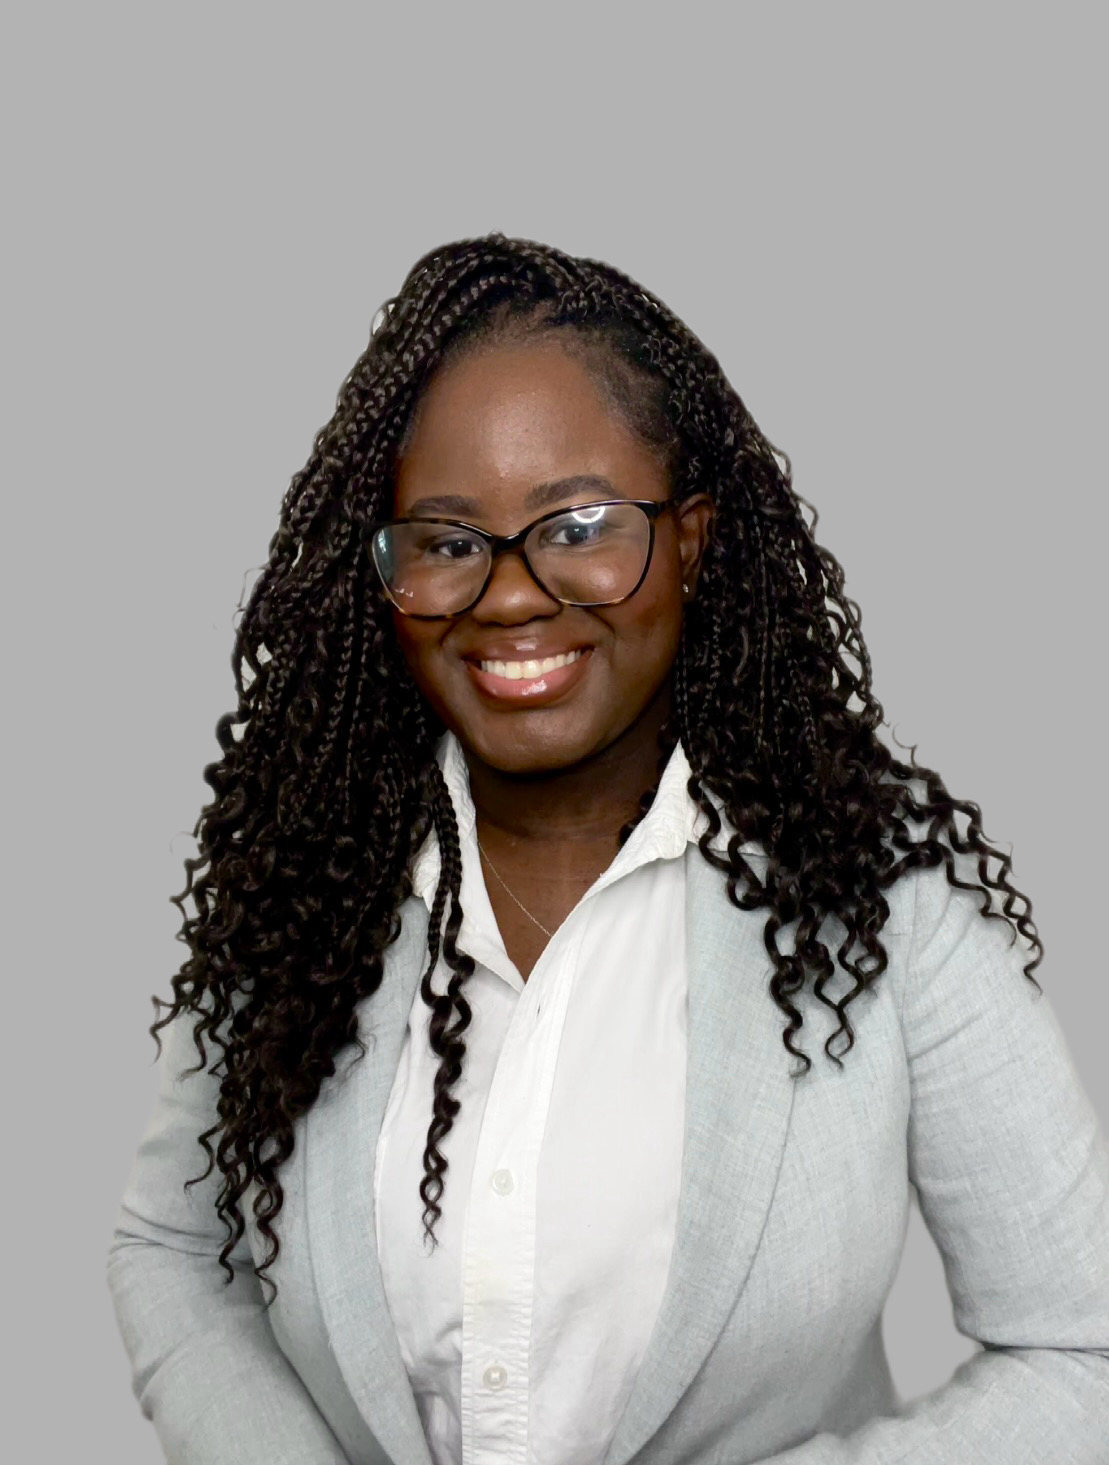
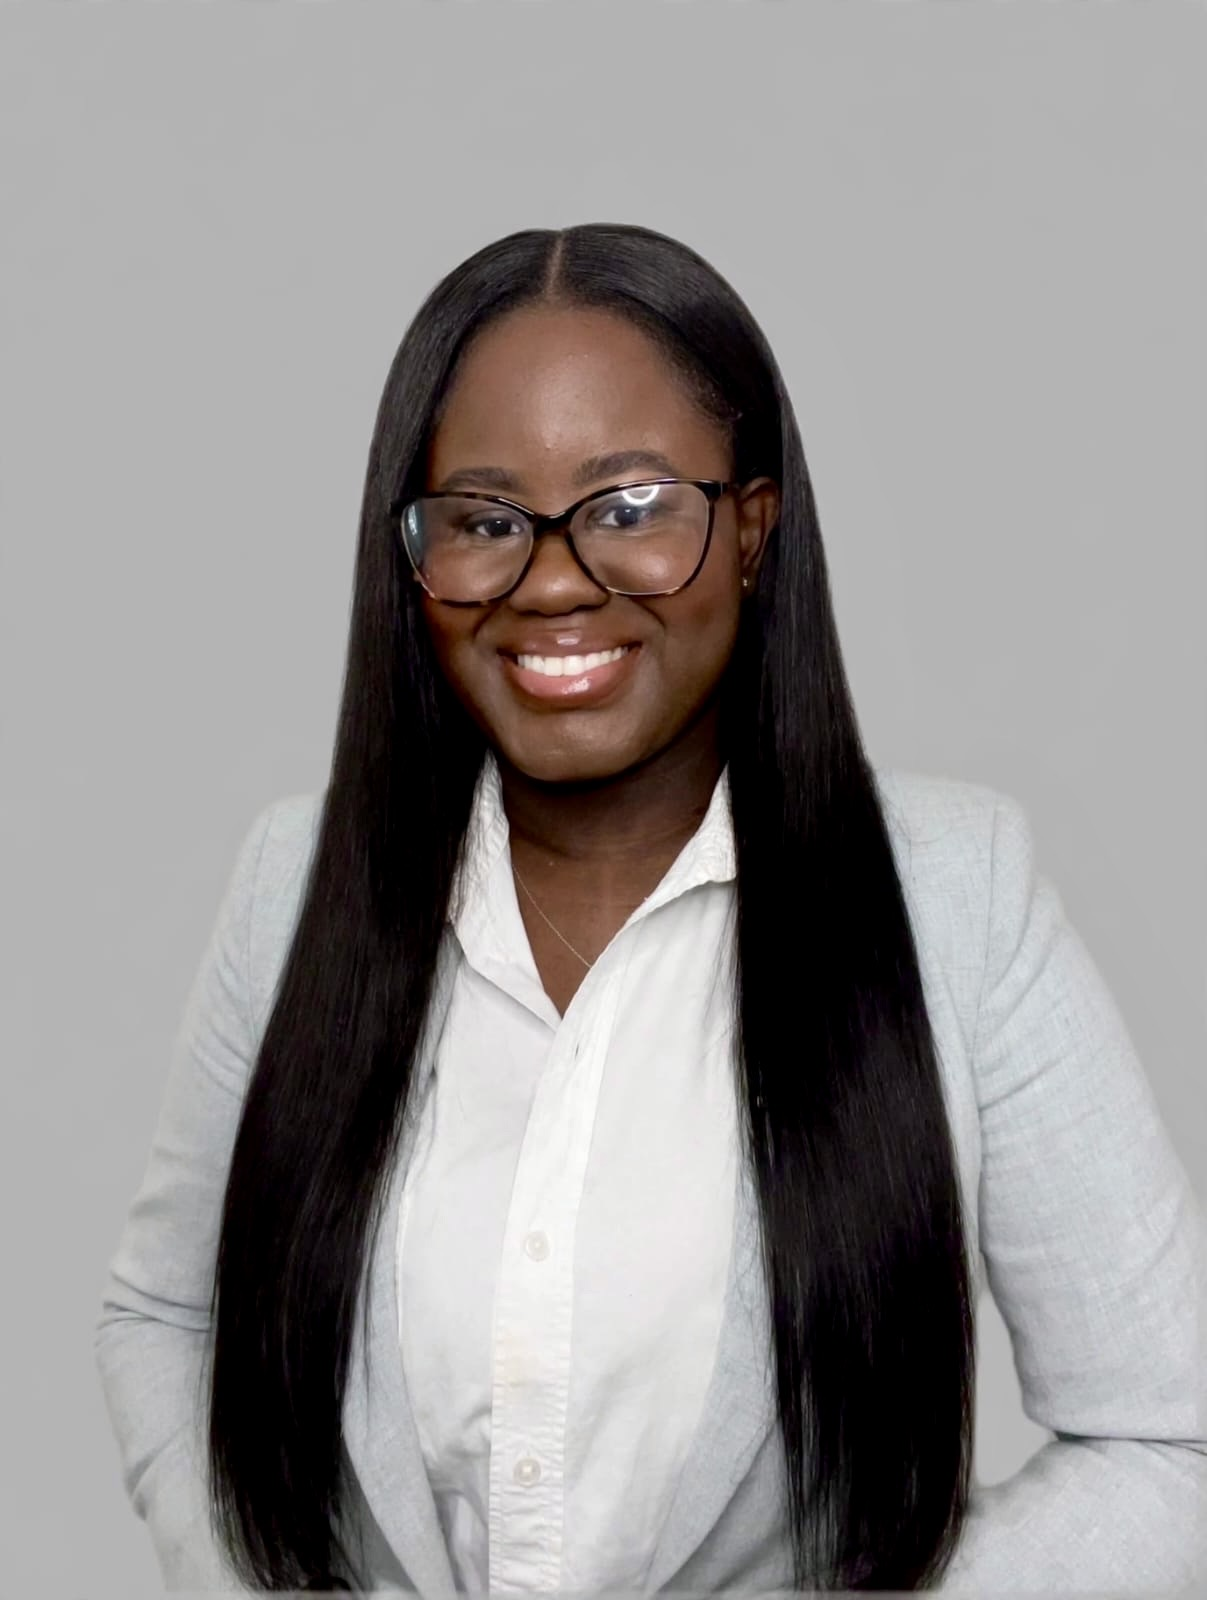
Update footer styling and profile image

diff --git a/css/styles.css b/css/styles.css
@@ -429,46 +429,91 @@ nav a {
 }
 
 
-
-/* Footer */
-
+/* FOOTER */
 footer {
-
-   background: linear-gradient(90deg, #6D5739, #9B7B50);
-   color: white;
-   text-align: center;
-   padding: 50px;
-   margin-top: 50px;
-
+  background: linear-gradient(90deg, #6D5739, #9B7B50);
+  color: white;
+  text-align: center;
+  padding: 34px 24px 22px;
+  margin-top: 45px;
 }
 
-footer p:first-child {
-
-   font-size: 42px;
-   margin-bottom: 20px;
-
+.footer-heading {
+  font-size: clamp(26px, 3vw, 36px);
+  font-weight: 400;
+  margin: 0 0 25px;
 }
 
-footer a {
-
-   background-color: white;
-   color: #6D5739;
-   padding: 15px 60px;
-   border-radius: 10px;
-   margin: 20px;
-   display: inline-block;
-
+.footer-links {
+  display: flex;
+  justify-content: center;
+  align-items: center;
+  flex-wrap: wrap;
+  gap: 12px;
+  margin: 0 auto;
 }
 
-footer p:last-child {
-
-   margin-top: 25px;
-   font-size: 15px;
-
+.footer-links a {
+  display: inline-block;
+  background: white;
+  color: #6D5739;
+  text-decoration: none;
+  font-size: 16px;
+  padding: 11px 25px;
+  border-radius: 999px;
+  margin: 0;
+  transition: background-color 0.2s ease, transform 0.2s ease;
 }
 
+.footer-links a:hover {
+  background: #eee5d8;
+  transform: translateY(-2px);
+}
 
-/* End of Main Page */
+.footer-copyright {
+  margin: 25px 0 0;
+  font-size: 13px;
+  line-height: 1.5;
+  opacity: 0.9;
+}
+
+@media screen and (max-width: 600px) {
+  footer {
+    padding: 28px 16px 18px;
+    margin-top: 30px;
+  }
+
+  .footer-heading {
+    font-size: 27px;
+    margin-bottom: 19px;
+  }
+
+  .footer-links {
+    gap: 10px;
+    max-width: 360px;
+  }
+
+  .footer-links a {
+    font-size: 14px;
+    padding: 10px 17px;
+  }
+
+  .footer-copyright {
+    margin-top: 20px;
+    font-size: 12px;
+  }
+}
+
+@media screen and (max-width: 360px) {
+  .footer-links {
+    gap: 8px;
+  }
+
+  .footer-links a {
+    font-size: 13px;
+    padding: 9px 13px;
+  }
+}
 
 /* Start Projects Page*/ 
 
@@ -3348,49 +3393,50 @@ img { height: auto; }
         margin: 0 !important;
     }
 
-    /* FOOTER: preserve the desktop button appearance */
-    footer {
-        width: 100% !important;
-        padding: 38px 16px !important;
-        margin-top: 35px !important;
-        text-align: center !important;
-    }
+    
+/* FOOTER: compact mobile layout */
+footer {
+    width: 100%;
+    padding: 26px 16px 18px;
+    margin-top: 28px;
+    text-align: center;
+}
 
-    .footer-heading {
-        font-size: clamp(27px, 7vw, 34px) !important;
-        margin-bottom: 24px !important;
-    }
+.footer-heading {
+    font-size: 25px;
+    margin: 0 0 18px;
+}
 
-    .footer-links {
-        display: flex !important;
-        justify-content: center !important;
-        align-items: center !important;
-        flex-wrap: wrap !important;
-        gap: 14px !important;
-        width: 100% !important;
-        max-width: 440px !important;
-        margin: 0 auto !important;
-    }
+.footer-links {
+    display: flex;
+    justify-content: center;
+    align-items: center;
+    flex-wrap: wrap;
+    gap: 10px;
+    width: 100%;
+    max-width: 380px;
+    margin: 0 auto;
+}
 
-    .footer-links a {
-        display: block !important;
-        flex: 0 1 28% !important;
-        min-width: 0 !important;
-        margin: 0 !important;
-        padding: 12px 5px !important;
-        border-radius: 10px !important;
-        background-color: white !important;
-        color: #6D5739 !important;
-        font-size: 14px !important;
-        text-align: center !important;
-        white-space: nowrap !important;
-    }
+.footer-links a {
+    display: inline-block;
+    flex: 0 1 auto;
+    min-width: 0;
+    margin: 0;
+    padding: 9px 17px;
+    border-radius: 999px;
+    background: white;
+    color: #6D5739;
+    font-size: 13px;
+    text-align: center;
+    white-space: nowrap;
+}
 
-    .footer-copyright {
-        margin-top: 25px !important;
-        font-size: 13px !important;
-        line-height: 1.6 !important;
-    }
+.footer-copyright {
+    margin: 19px 0 0;
+    font-size: 11px;
+    line-height: 1.5;
+}
 }
 
 /* Extra-small phones */
